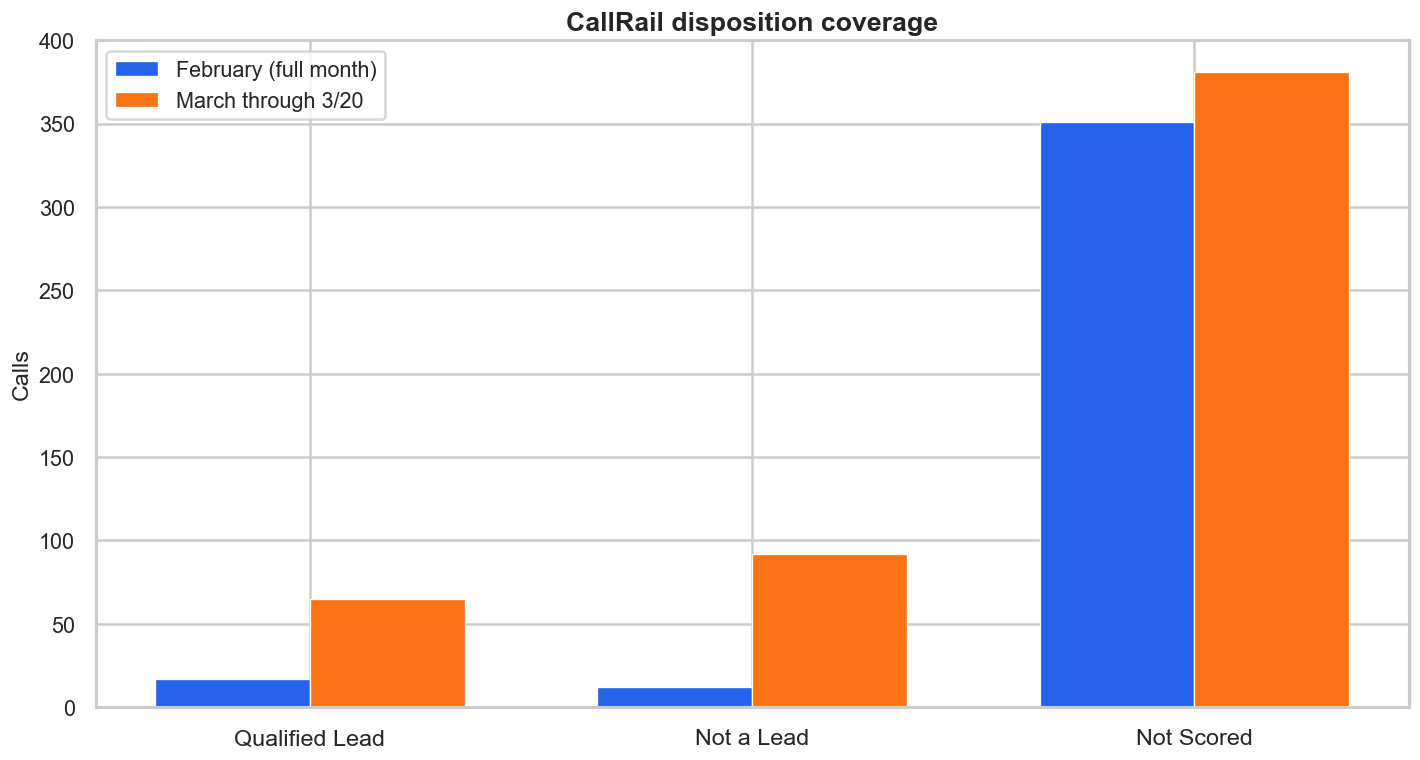
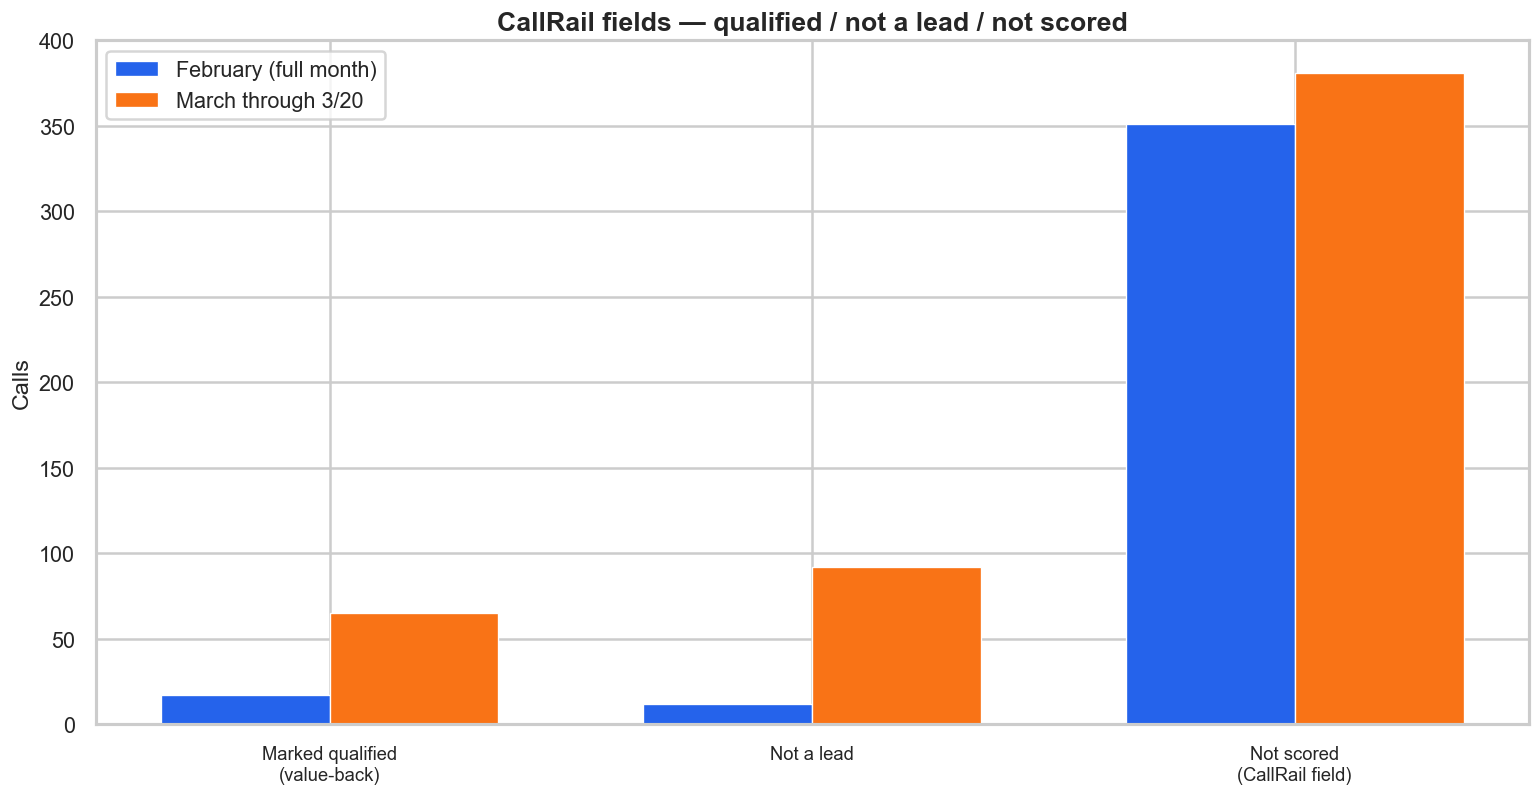
Reframe: value-back qualified, not scored as field; expand disclaimer; soften closing
Made-with: Cursor

Changed region(s): [[0.0, 0.0, 1.0, 0.9987], [0.6197, 0.7868, 0.7437, 0.8474], [0.8366, 0.0908, 0.9606, 0.1211]]

diff --git a/scripts/build_mom_report.py b/scripts/build_mom_report.py
@@ -560,17 +560,17 @@ def main():
 
     sf = qual_segments(feb_core["Qualified"])
     sm = qual_segments(mar_core["Qualified"])
-    fig, ax = plt.subplots(figsize=(12, 6.5))
-    cats = ["Qualified Lead", "Not a Lead", "Not Scored"]
+    fig, ax = plt.subplots(figsize=(13, 6.8))
+    cats = ["Marked qualified\n(value-back)", "Not a lead", "Not scored\n(CallRail field)"]
     fv = [sf["qualified_lead"], sf["not_a_lead"], sf["not_scored"]]
     mv = [sm["qualified_lead"], sm["not_a_lead"], sm["not_scored"]]
     xs = np.arange(len(cats))
     ax.bar(xs - w / 2, fv, width=w, label="February (full month)", color="#2563eb", edgecolor="white", linewidth=0.8)
     ax.bar(xs + w / 2, mv, width=w, label="March through 3/20", color="#f97316", edgecolor="white", linewidth=0.8)
     ax.set_xticks(xs)
-    ax.set_xticklabels(cats, fontsize=14)
+    ax.set_xticklabels(cats, fontsize=11)
     ax.set_ylabel("Calls", fontsize=14)
-    ax.set_title("CallRail disposition coverage", fontweight="bold", fontsize=16)
+    ax.set_title("CallRail fields — qualified / not a lead / not scored", fontweight="bold", fontsize=16)
     ax.tick_params(axis="y", labelsize=13)
     ax.legend(fontsize=13)
     plt.tight_layout()
@@ -684,17 +684,25 @@ def main():
     unc_f = int(feb_b.get("UNCLEAR_UNTAGGED", 0))
     unc_m = int(mar_b.get("UNCLEAR_UNTAGGED", 0))
 
-    disclaimer = (
-        "This report was drafted with assistance from Cursor AI. Numbers, tags, and buckets can be wrong — "
-        "spot-check anything you stake decisions on. February had lighter/messier labeling in places, so month-to-month "
-        "comparisons are directional. March is not a full month yet; projections are pace-based and rough."
+    disclaimer_p1 = (
+        "This report was drafted with assistance from Cursor AI. Numbers, charts, and modeled buckets may contain mistakes — "
+        "verify anything you rely on for decisions. February had lighter labeling in places; March is incomplete; "
+        "projections are pace-based and rough."
+    )
+    disclaimer_p2 = (
+        "Tags and “qualified” markings in CallRail reflect contextual judgment from listening to calls — they are not a full "
+        "intake QA scorecard and may not match what a formal intake team would classify as a true lead."
+    )
+    disclaimer_p3 = (
+        "“Qualified lead” here means calls you chose to mark for Google value-back (your workflow), not an independent measure of lead quality. "
+        "The CallRail “Not scored” field is just that — a field state — not evidence of a failed scoring program."
     )
 
     # "What changed" — short bullets (no long paragraphs)
     bullets_what_changed = f"""
 <li><strong>Call volume:</strong> About <strong>{k_mar['n']:,}</strong> calls in the first 20 days of March vs <strong>{k_feb['n']:,}</strong> across February’s export — daily pace is higher in March.</li>
-<li><strong>Qualified rate:</strong> CallRail “Qualified Lead” rate went from <strong>{k_feb['ql_rate']:.1f}%</strong> to <strong>{k_mar['ql_rate']:.1f}%</strong>.</li>
-<li><strong>Not scored:</strong> <strong>{k_mar['not_scored']:,}</strong> March vs <strong>{k_feb['not_scored']:,}</strong> February — big blind spot if it stays high.</li>
+<li><strong>Marked qualified (value-back to Google):</strong> Share of calls marked “Qualified Lead” went from <strong>{k_feb['ql_rate']:.1f}%</strong> to <strong>{k_mar['ql_rate']:.1f}%</strong> — that’s your judgment for value-back, not an objective score.</li>
+<li><strong>CallRail “Not scored” field:</strong> <strong>{k_mar['not_scored']:,}</strong> March vs <strong>{k_feb['not_scored']:,}</strong> February — mostly calls you haven’t marked for Google value-back; neutral context, not a “bad intake” KPI.</li>
 <li><strong>Google/Meta vs Direct/GMB:</strong> PPC-heavy (Google Ads + Meta) <strong>{ppc_f}</strong> → <strong>{ppc_m}</strong>; Direct + GMB <strong>{br_f}</strong> → <strong>{br_m}</strong>.</li>
 <li><strong>Modeled buckets (rough):</strong> Silent/dead-air style <strong>{silent_f}</strong> → <strong>{silent_m}</strong>; wrong-firm/admin/existing <strong>{wf_f}</strong> → <strong>{wf_m}</strong>; non-PI wrong practice <strong>{npi_f}</strong> → <strong>{npi_m}</strong>; attorney-switch signals <strong>{as_f}</strong> → <strong>{as_m}</strong>; symptom confusion <strong>{med_f}</strong> → <strong>{med_m}</strong>; unclear/untagged <strong>{unc_f}</strong> → <strong>{unc_m}</strong>.</li>
 """
@@ -739,6 +747,9 @@ h1 {{ font-size: 1.85rem; margin: 0 0 0.5rem; font-weight: 700; }}
   font-size: 0.95rem;
   color: #44403c;
 }}
+.disclaimer p {{ margin: 0.35rem 0; }}
+.disclaimer p:first-child {{ margin-top: 0; }}
+.disclaimer p:last-child {{ margin-bottom: 0; }}
 .change-list {{ margin: 0.5rem 0 0; padding-left: 1.2rem; }}
 .change-list li {{ margin: 0.5rem 0; line-height: 1.5; }}
 .takeaway-line {{ font-size: 0.95rem; color: var(--muted); margin: 0.4rem 0 1rem; max-width: 48rem; }}
@@ -797,14 +808,17 @@ footer.note {{ font-size: 0.85rem; color: var(--muted); margin-top: 2rem; }}
 </header>
 
 <div class="disclaimer">
-  {html.escape(disclaimer)}
+  <p>{html.escape(disclaimer_p1)}</p>
+  <p>{html.escape(disclaimer_p2)}</p>
+  <p>{html.escape(disclaimer_p3)}</p>
 </div>
 
 <h2>Definitions (plain English)</h2>
 <div class="def">
-<p><strong>Qualified lead rate</strong> — What CallRail shows as “Qualified Lead” vs everything else.</p>
-<p><strong>True PI (modeled)</strong> — Our best read from tags + status for injury-type opportunity. Not the same as CallRail’s button.</p>
-<p><strong>Intake failure / dead-air bucket</strong> — Hang-ups, abandoned calls, “silent” or dead-air tags, or super-short connects with no real intake. These are usually <em>handling or connect</em> issues, not “bad marketing” by themselves.</p>
+<p><strong>Qualified / value-back</strong> — Calls you marked “Qualified Lead” because you intend to send value back to Google. That’s your call — not an independent quality score.</p>
+<p><strong>True PI (modeled)</strong> — A rough machine read from tags + status for injury-shaped opportunity. It’s a label for charts, not a substitute for your ear on the line.</p>
+<p><strong>Not scored (CallRail field)</strong> — The default bucket when you haven’t applied that value-back marking. It isn’t a failed “scoring program.”</p>
+<p><strong>Intake failure / dead-air bucket</strong> — Hang-ups, abandoned calls, silent/dead-air tags, or very short connects. Usually connect or handling, not “bad ads” by itself.</p>
 </div>
 
 <h2>Snapshot KPIs</h2>
@@ -818,9 +832,9 @@ footer.note {{ font-size: 0.85rem; color: var(--muted); margin-top: 2rem; }}
 <tr><td>Average duration</td><td>{fmt_duration_human(int(round(k_feb["avg_dur"])))}</td><td>{fmt_duration_human(int(round(k_mar["avg_dur"])))}</td><td>—</td><td>—</td></tr>
 <tr><td>Median duration</td><td>{fmt_duration_human(int(round(k_feb["median_dur"])))}</td><td>{fmt_duration_human(int(round(k_mar["median_dur"])))}</td><td>—</td><td>—</td></tr>
 <tr><td>Calls with tags</td><td>{k_feb["tagged"]:,}</td><td>{k_mar["tagged"]:,}</td><td>{int(round(k_mar_proj["tagged"])):,}</td><td>—</td></tr>
-<tr><td>Qualified leads (CallRail)</td><td>{k_feb["qualified_leads"]:,}</td><td>{k_mar["qualified_leads"]:,}</td><td>{int(round(k_mar_proj["qualified_leads"])):,}</td><td>—</td></tr>
-<tr><td>Not scored</td><td>{k_feb["not_scored"]:,}</td><td>{k_mar["not_scored"]:,}</td><td>{int(round(k_mar_proj["not_scored"])):,}</td><td>{pct_change(k_mar["not_scored"], k_feb["not_scored"])} (actual)</td></tr>
-<tr><td>Qualified lead rate</td><td>{k_feb["ql_rate"]:.1f}%</td><td>{k_mar["ql_rate"]:.1f}%</td><td>{k_mar["ql_rate"]:.1f}%</td><td>{pct_change(k_mar["ql_rate"], k_feb["ql_rate"])}</td></tr>
+<tr><td>Marked qualified (Google value-back)</td><td>{k_feb["qualified_leads"]:,}</td><td>{k_mar["qualified_leads"]:,}</td><td>{int(round(k_mar_proj["qualified_leads"])):,}</td><td>—</td></tr>
+<tr><td>CallRail “Not scored” (field, not a failure metric)</td><td>{k_feb["not_scored"]:,}</td><td>{k_mar["not_scored"]:,}</td><td>{int(round(k_mar_proj["not_scored"])):,}</td><td>{pct_change(k_mar["not_scored"], k_feb["not_scored"])} (actual)</td></tr>
+<tr><td>Share marked qualified (value-back)</td><td>{k_feb["ql_rate"]:.1f}%</td><td>{k_mar["ql_rate"]:.1f}%</td><td>{k_mar["ql_rate"]:.1f}%</td><td>{pct_change(k_mar["ql_rate"], k_feb["ql_rate"])}</td></tr>
 <tr><td>True PI (modeled count)</td><td>{k_feb["true_pi_est"]:,}</td><td>{k_mar["true_pi_est"]:,}</td><td>{k_mar_proj["true_pi_est"]:,}</td><td>{pct_change(k_mar["true_pi_est"], k_feb["true_pi_est"])}</td></tr>
 <tr><td>Internal tests (raw)</td><td>{int(feb_int)}</td><td>{int(mar_int)}</td><td>—</td><td>—</td></tr>
 </tbody>
@@ -831,11 +845,11 @@ footer.note {{ font-size: 0.85rem; color: var(--muted); margin-top: 2rem; }}
 <ul class="change-list">
 {bullets_what_changed}
 </ul>
-<p class="takeaway-line"><strong>Plain read:</strong> If rings go up but “Not Scored” stays huge, you’re busy — not necessarily winning.</p>
+<p class="takeaway-line"><strong>Plain read:</strong> Volume is up; value-back share and modeled buckets are the follow-on questions — not “not scored” as a guilt metric.</p>
 
-<h2>Scoring coverage (CallRail)</h2>
-<p class="takeaway-line">Shows how often the team closed the loop in CallRail. Big “Not Scored” = you can’t trust source ROI.</p>
-<div class="figure"><img src="charts/mom_scoring_coverage.png" alt="Scoring coverage"/><p>February = full export; March = through Mar 20 (fewer days, so totals aren’t apples-to-apples).</p></div>
+<h2>CallRail fields — qualified vs not scored</h2>
+<p class="takeaway-line">This is how often calls sit in each CallRail disposition field. “Not scored” usually means you haven’t marked value-back yet — not that intake failed.</p>
+<div class="figure"><img src="charts/mom_scoring_coverage.png" alt="CallRail fields"/><p>February = full export; March = through Mar 20 (shorter window).</p></div>
 
 <h2>Source mix</h2>
 <p class="takeaway-line">Where the phones rang. Compare shape, not just height — one source can add volume without adding cases.</p>
@@ -866,8 +880,8 @@ Median March handle time: <strong>{fmt_duration_human(int(round(k_mar["median_du
 <ul class="tight">
 <li><strong>Projected March calls (excl. tests):</strong> ~{k_mar_proj["n"]:,} if the first 20 days represent the whole month.</li>
 <li><strong>Caveat:</strong> Pace can <em>overstate</em> if the last third of March is slower (weekends, budget caps) or <em>understate</em> if you run heavy weekend LSA/PPC.</li>
-<li><strong>If nothing changes:</strong> higher volume with weak tagging = marketing looks “fine” while intake quality stays invisible.</li>
-<li><strong>Fast win:</strong> cut dead-air + force disposition on “Not Scored” — that alone tightens forecasting.</li>
+<li><strong>If nothing changes:</strong> you may still see volume grow while only part of the story is visible in tags.</li>
+<li><strong>Operational angle:</strong> fewer dead-air connects usually helps conversion without changing ad spend.</li>
 </ul>
 
 <h2>Operational notes</h2>
@@ -879,23 +893,24 @@ Median March handle time: <strong>{fmt_duration_human(int(round(k_mar["median_du
 <h2>Recommended actions</h2>
 <h3>Intake (priority)</h3>
 <ul class="tight">
-<li><strong>End every call with a disposition</strong> — “Not Scored” should be rare, not normal.</li>
+<li><strong>Value-back marking:</strong> keep using “qualified” the way you already do for Google — this report doesn’t treat “not scored” as a problem on its own.</li>
 <li><strong>10-second opener:</strong> firm name, PI, area — then route existing clients before they burn new-lead time.</li>
-<li><strong>Save hang-ups:</strong> one last question before you let silent calls drop.</li>
-<li><strong>Train on attorney-switch language</strong> — don’t lose those to speed.</li>
+<li><strong>Save hang-ups:</strong> one last question before silent calls drop, when it makes sense.</li>
+<li><strong>Attorney-switch phrasing:</strong> a steady triage line can help those calls get a fair listen.</li>
 </ul>
 <h3>Ops / routing</h3>
 <ul class="tight"><li>Match headcount to the heatmap (late morning / early afternoon Pacific).</li><li>Send vendor/medical to admin lines.</li></ul>
 <h3>Marketing / PPC</h3>
 <ul class="tight"><li>Pull search terms / LSA queries weekly; add negatives for obvious non-PI.</li></ul>
 <h3>Reporting</h3>
-<ul class="tight"><li>Reconcile CallRail qualified vs signed cases monthly.</li></ul>
+<ul class="tight"><li>Optionally reconcile value-back qualified counts with signed cases over time — useful context, not a verdict.</li></ul>
 
 <div class="takeaway">
-<h2 style="margin-top:0;border:none;">Bottom line</h2>
-<p>You probably don’t need <em>more</em> raw calls as much as <em>cleaner receipt</em>: answer discipline, tagging, and triage. 
-Most of the waste here is preventable — calls that never get scored, or fail before a real conversation. Fixing that usually beats another point of bid.</p>
-<p style="margin-bottom:0;font-size:0.95rem;"><strong>Data caveats:</strong> See the yellow disclaimer box at the top (AI-assisted, imperfect tags, partial months). February export starts Feb 2; Pacific time on heatmap; internal tests removed from main KPI rows.</p>
+<h2 style="margin-top:0;border:none;">Closing note</h2>
+<p>The data here can support a simple question: <em>given the calls you already get, where might a little more clarity or speed help?</em> 
+Higher volume in March doesn’t have to mean anything negative — it’s a prompt to look at patterns (timing, connect quality, tag mix) if you want to tune intake next. 
+Small changes on answer quality and triage sometimes matter as much as media tweaks.</p>
+<p style="margin-bottom:0;font-size:0.95rem;"><strong>Reminder:</strong> See the disclaimer box — AI-assisted, contextual tags, partial March, Feb export starts Feb 2; Pacific time on heatmap; internal tests pulled from main KPI rows.</p>
 </div>
 
 <footer class="note">
